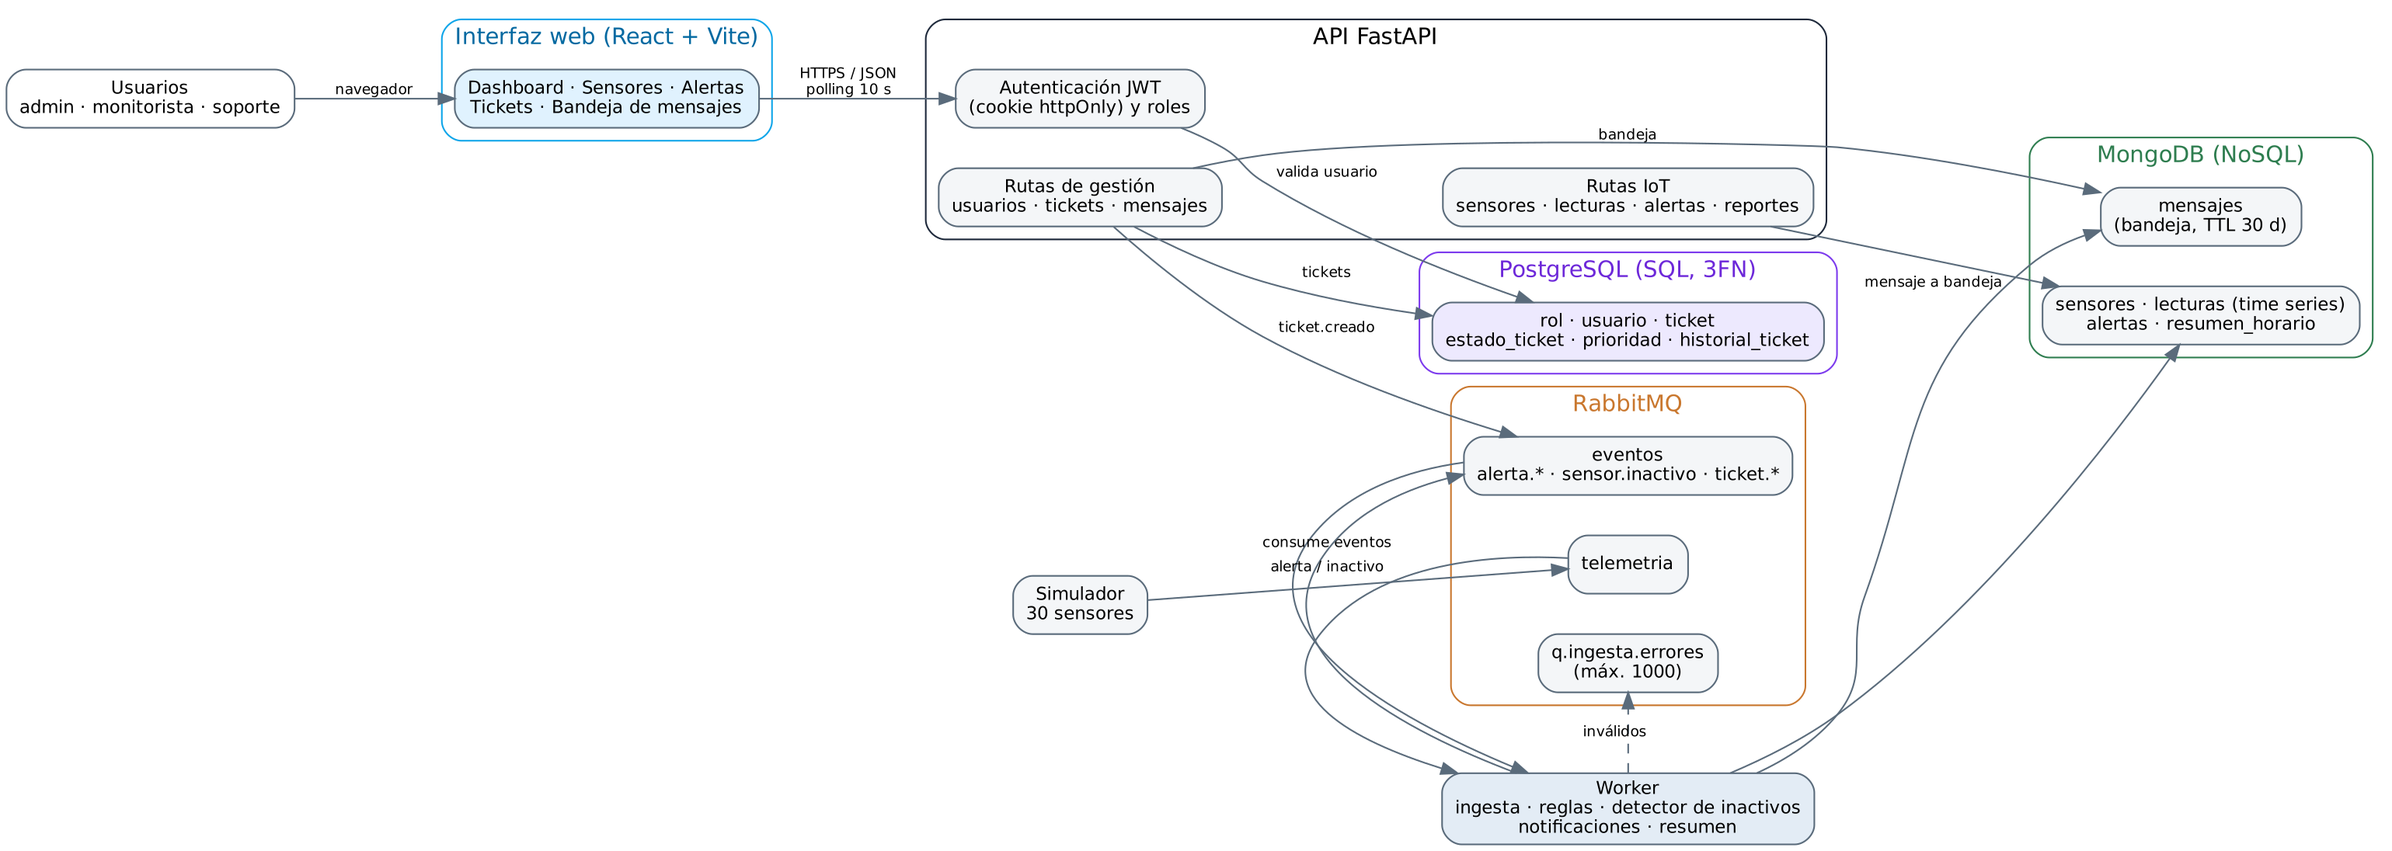
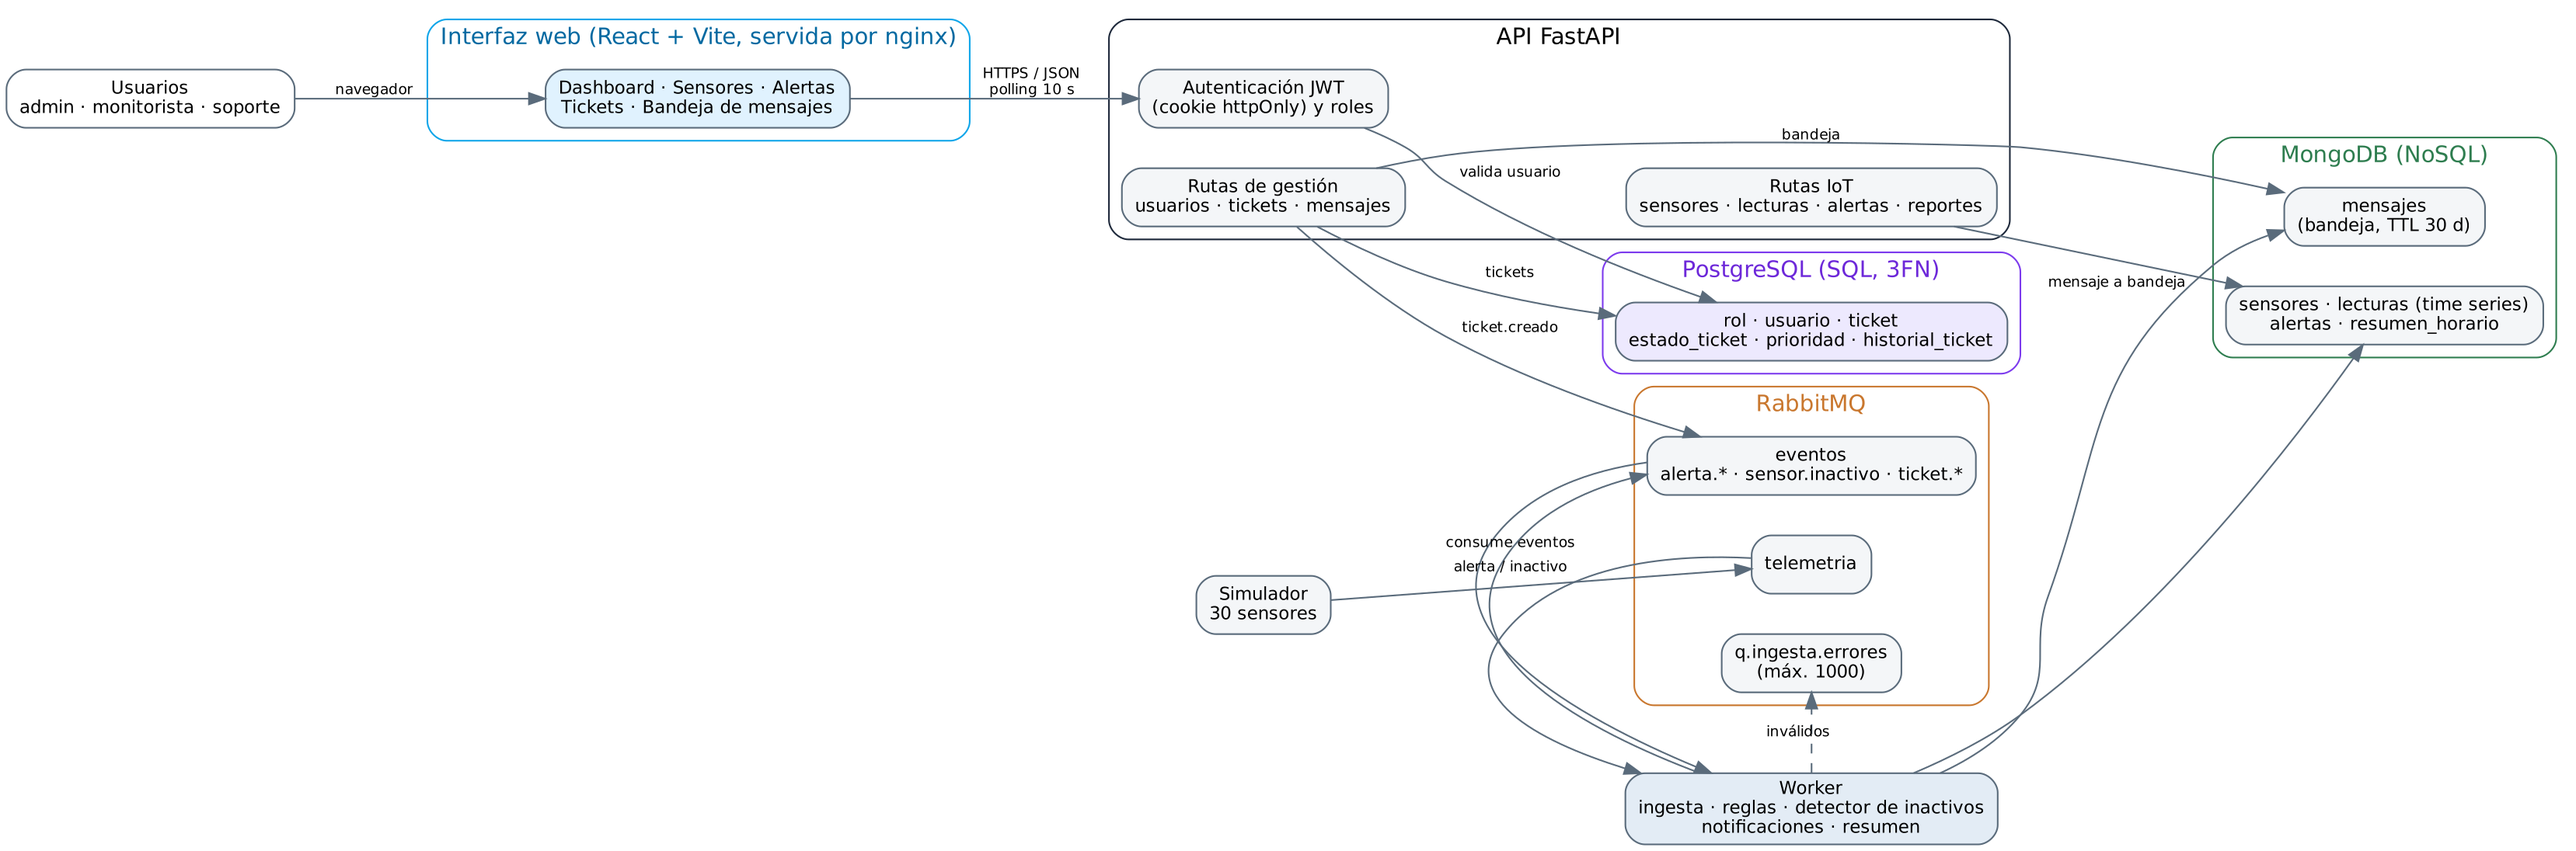
Diagramas: casos de uso, actividades y ajustes de despliegue y clases

diff --git a/docs/diagramas/casos_uso.py b/docs/diagramas/casos_uso.py
@@ -1,0 +1,81 @@
+import math
+W, H = 1400, 1000
+partes = []
+RX, RY = 115, 30
+casos = {
+  'login': (560, 95, 'Iniciar sesión'), 'dash': (560, 165, 'Consultar dashboard|y sensores'),
+  'tend': (560, 235, 'Consultar tendencia|de un sensor'), 'csv': (560, 305, 'Exportar reporte CSV'),
+  'bandeja': (560, 375, 'Leer bandeja|de mensajes'), 'enviar': (560, 445, 'Enviar mensaje|a un rol'),
+  'atender': (560, 545, 'Atender alerta'), 'levantar': (560, 615, 'Levantar ticket'),
+  'cerrar': (560, 685, 'Cerrar ticket resuelto'), 'tomar': (560, 775, 'Tomar y resolver ticket'),
+  'usuarios': (560, 865, 'Gestionar usuarios'), 'umbrales': (560, 935, 'Editar umbrales|de un sensor'),
+  'lecturas': (900, 150, 'Generar y validar|lecturas'), 'alertas': (900, 260, 'Generar alertas|por umbral'),
+  'inactivo': (900, 370, 'Detectar sensores|inactivos'),
+}
+sistema_caso = {'lecturas', 'alertas', 'inactivo'}
+actores = {'usuario': (130, 270, 'Usuario autenticado'), 'moni': (80, 615, 'Monitorista'),
+           'sop': (210, 775, 'Soporte'), 'admin': (130, 905, 'Administrador')}
+SIS = (1250, 260)
+
+def borde_elipse(cx, cy, x, y):
+    dx, dy = x - cx, y - cy
+    t = 1 / math.sqrt((dx / RX) ** 2 + (dy / RY) ** 2)
+    return cx + dx * t, cy + dy * t
+
+def linea(a, b, extra=''):
+    partes.append(f'<line x1="{a[0]:.1f}" y1="{a[1]:.1f}" x2="{b[0]:.1f}" y2="{b[1]:.1f}" stroke="#475569" stroke-width="1.5" {extra}/>')
+
+def actor_a_caso(act, caso):
+    ax, ay, _ = actores[act]; cx, cy, _ = casos[caso]
+    origen = (ax + 30, ay - 10)
+    linea(origen, borde_elipse(cx, cy, *origen))
+
+partes.append(f'<rect x="330" y="30" width="720" height="950" rx="16" fill="none" stroke="#1E293B" stroke-width="2"/>')
+partes.append('<text x="690" y="58" text-anchor="middle" font-size="17" fill="#0F172A">Plataforma de Monitoreo IoT</text>')
+
+for c in ['login', 'dash', 'tend', 'csv', 'bandeja', 'enviar']: actor_a_caso('usuario', c)
+for c in ['cerrar', 'atender', 'levantar']: actor_a_caso('moni', c)
+actor_a_caso('sop', 'tomar')
+for c in ['usuarios', 'umbrales']: actor_a_caso('admin', c)
+for c in sistema_caso:
+    cx, cy, _ = casos[c]; destino = (SIS[0] - 90, SIS[1])
+    linea(borde_elipse(cx, cy, *destino), destino)
+
+def generalizacion(hijo, padre):
+    hx, hy, _ = actores[hijo]; px, py, _ = actores[padre]
+    a, b = (hx, hy - 48), (px, py + 62)
+    linea(a, b, 'marker-end="url(#triangulo)"')
+generalizacion('moni', 'usuario'); generalizacion('sop', 'usuario')
+generalizacion('admin', 'moni'); generalizacion('admin', 'sop')
+
+def dependencia(origen, destino, texto):
+    ox, oy, _ = casos[origen]; dx, dy = casos[destino][:2]
+    a, b = borde_elipse(ox, oy, dx, dy), borde_elipse(dx, dy, ox, oy)
+    linea(a, b, 'stroke-dasharray="7 5" marker-end="url(#flecha)"')
+    partes.append(f'<text x="{(a[0]+b[0])/2 + 10:.0f}" y="{(a[1]+b[1])/2:.0f}" font-size="12" fill="#475569">{texto}</text>')
+dependencia('alertas', 'lecturas', '«include»')
+lx, ly, _ = casos['levantar']; axx, ayy, _ = casos['atender']
+partes.append(f'<path d="M{lx+RX} {ly} C {lx+RX+70} {ly}, {axx+RX+70} {ayy}, {axx+RX+2} {ayy}" fill="none" stroke="#475569" stroke-width="1.5" stroke-dasharray="7 5" marker-end="url(#flecha)"/>')
+partes.append(f'<text x="{lx+RX+60}" y="{(ly+ayy)/2+4}" font-size="12" fill="#475569">«extend»</text>')
+
+for clave, (x, y, t) in casos.items():
+    sis = clave in sistema_caso
+    partes.append(f'<ellipse cx="{x}" cy="{y}" rx="{RX}" ry="{RY}" fill="{"#F1F5F9" if sis else "#E0F2FE"}" stroke="{"#475569" if sis else "#0369A1"}" stroke-width="1.5"/>')
+    lineas = t.split('|')
+    for i, l in enumerate(lineas):
+        partes.append(f'<text x="{x}" y="{y + 5 + (i - (len(lineas)-1)/2) * 17:.0f}" text-anchor="middle" font-size="14" fill="#0F172A">{l}</text>')
+
+for x, y, t in actores.values():
+    partes.append(f'<g stroke="#1E293B" stroke-width="2.5" fill="none"><circle cx="{x}" cy="{y-34}" r="11"/><line x1="{x}" y1="{y-23}" x2="{x}" y2="{y+8}"/>'
+                  f'<line x1="{x-18}" y1="{y-10}" x2="{x+18}" y2="{y-10}"/><line x1="{x}" y1="{y+8}" x2="{x-15}" y2="{y+32}"/><line x1="{x}" y1="{y+8}" x2="{x+15}" y2="{y+32}"/></g>')
+    partes.append(f'<text x="{x}" y="{y+52}" text-anchor="middle" font-size="14" font-weight="600" fill="#0F172A">{t}</text>')
+
+partes.append(f'<rect x="{SIS[0]-90}" y="{SIS[1]-32}" width="180" height="64" rx="10" fill="#F1F5F9" stroke="#475569" stroke-width="1.5"/>')
+partes.append(f'<text x="{SIS[0]}" y="{SIS[1]-6}" text-anchor="middle" font-size="13" fill="#475569">«sistema»</text>')
+partes.append(f'<text x="{SIS[0]}" y="{SIS[1]+14}" text-anchor="middle" font-size="14" fill="#0F172A">Simulador y worker</text>')
+
+svg = f'''<svg xmlns="http://www.w3.org/2000/svg" width="{W}" height="{H}" viewBox="0 0 {W} {H}" font-family="Helvetica, Arial, sans-serif">
+<defs><marker id="triangulo" viewBox="0 0 12 12" refX="11" refY="6" markerWidth="14" markerHeight="14" orient="auto-start-reverse"><path d="M1 1 L11 6 L1 11 Z" fill="#fff" stroke="#475569" stroke-width="1.3"/></marker>
+<marker id="flecha" viewBox="0 0 10 10" refX="9" refY="5" markerWidth="9" markerHeight="9" orient="auto"><path d="M1 1 L9 5 L1 9" fill="none" stroke="#475569" stroke-width="1.5"/></marker></defs>
+<rect width="100%" height="100%" fill="#fff"/>{"".join(partes)}</svg>'''
+open('casos_uso.svg', 'w').write(svg)
